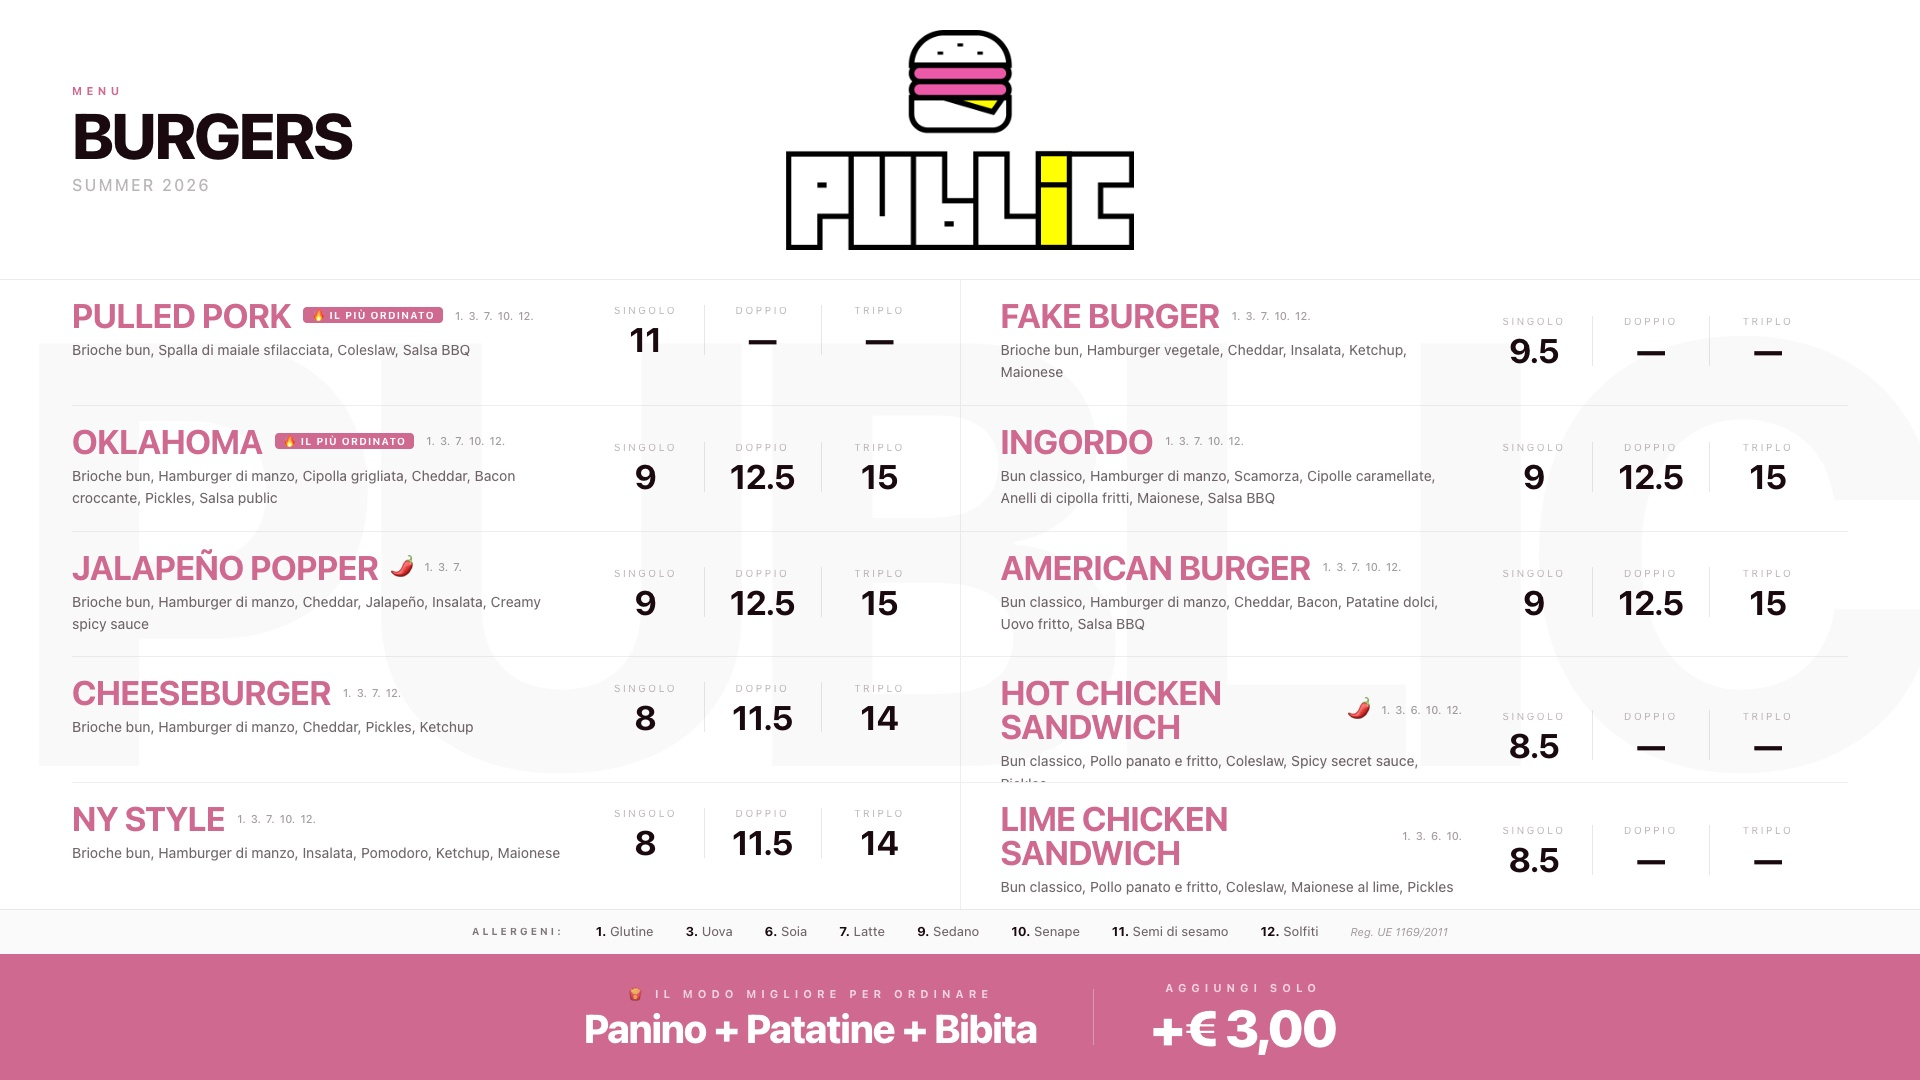
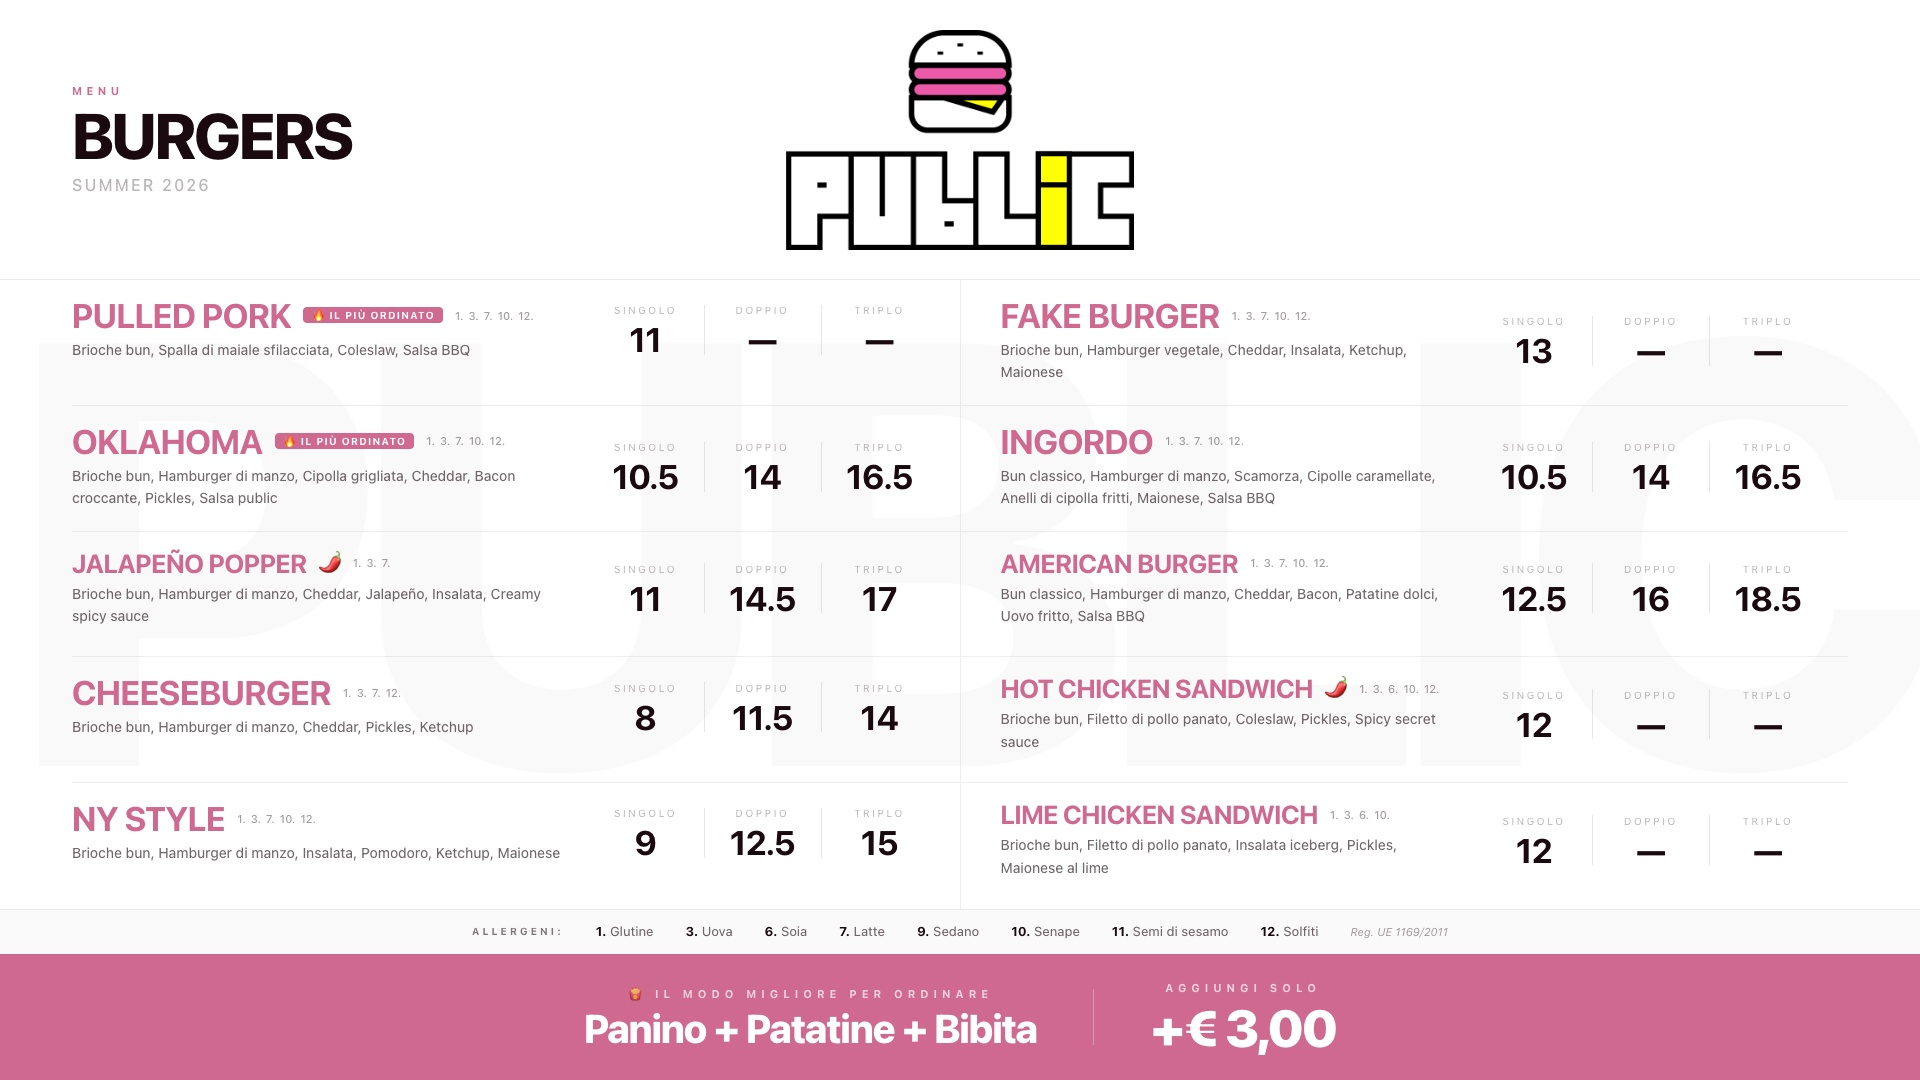
Update menu: new prices, Hot/Lime Chicken Sandwich, Chicken Tenders, bypass display auth

diff --git a/src/menuData.ts b/src/menuData.ts
@@ -36,7 +36,7 @@ export const BURGERS: BurgerDef[] = [
     tag: 'Bold',
     spicy: false,
     ingredients: ['Brioche bun', 'Hamburger di manzo', 'Cipolla grigliata', 'Cheddar', 'Bacon croccante', 'Pickles', 'Salsa public'],
-    prices: { single: 9, double: 12.5, triple: 15 },
+    prices: { single: 10.5, double: 14, triple: 16.5 },
     combo: 3,
     allergens: [1, 3, 7, 10, 12],
     popular: true,
@@ -46,7 +46,7 @@ export const BURGERS: BurgerDef[] = [
     tag: 'Spicy',
     spicy: true,
     ingredients: ['Brioche bun', 'Hamburger di manzo', 'Cheddar', 'Jalapeño', 'Insalata', 'Creamy spicy sauce'],
-    prices: { single: 9, double: 12.5, triple: 15 },
+    prices: { single: 11, double: 14.5, triple: 17 },
     combo: 3,
     allergens: [1, 3, 7],
   },
@@ -64,7 +64,7 @@ export const BURGERS: BurgerDef[] = [
     tag: 'Signature',
     spicy: false,
     ingredients: ['Brioche bun', 'Hamburger di manzo', 'Insalata', 'Pomodoro', 'Ketchup', 'Maionese'],
-    prices: { single: 8, double: 11.5, triple: 14 },
+    prices: { single: 9, double: 12.5, triple: 15 },
     combo: 3,
     allergens: [1, 3, 7, 10, 12],
   },
@@ -74,7 +74,7 @@ export const BURGERS: BurgerDef[] = [
     spicy: false,
     ingredients: ['Brioche bun', 'Hamburger vegetale', 'Cheddar', 'Insalata', 'Ketchup', 'Maionese'],
     prices: null,
-    fixedPrice: 9.5,
+    fixedPrice: 13,
     combo: 3,
     allergens: [1, 3, 7, 10, 12],
   },
@@ -83,7 +83,7 @@ export const BURGERS: BurgerDef[] = [
     tag: 'Extra',
     spicy: false,
     ingredients: ['Bun classico', 'Hamburger di manzo', 'Scamorza', 'Cipolle caramellate', 'Anelli di cipolla fritti', 'Maionese', 'Salsa BBQ'],
-    prices: { single: 9, double: 12.5, triple: 15 },
+    prices: { single: 10.5, double: 14, triple: 16.5 },
     combo: 3,
     allergens: [1, 3, 7, 10, 12],
   },
@@ -92,7 +92,7 @@ export const BURGERS: BurgerDef[] = [
     tag: 'American',
     spicy: false,
     ingredients: ['Bun classico', 'Hamburger di manzo', 'Cheddar', 'Bacon', 'Patatine dolci', 'Uovo fritto', 'Salsa BBQ'],
-    prices: { single: 9, double: 12.5, triple: 15 },
+    prices: { single: 12.5, double: 16, triple: 18.5 },
     combo: 3,
     allergens: [1, 3, 7, 10, 12],
   },
@@ -100,9 +100,9 @@ export const BURGERS: BurgerDef[] = [
     name: 'Hot Chicken Sandwich',
     tag: 'Chicken',
     spicy: true,
-    ingredients: ['Bun classico', 'Pollo panato e fritto', 'Coleslaw', 'Spicy secret sauce', 'Pickles'],
+    ingredients: ['Brioche bun', 'Filetto di pollo panato', 'Coleslaw', 'Pickles', 'Spicy secret sauce'],
     prices: null,
-    fixedPrice: 8.5,
+    fixedPrice: 12,
     combo: 3,
     allergens: [1, 3, 6, 10, 12],
   },
@@ -110,24 +110,23 @@ export const BURGERS: BurgerDef[] = [
     name: 'Lime Chicken Sandwich',
     tag: 'Chicken',
     spicy: false,
-    ingredients: ['Bun classico', 'Pollo panato e fritto', 'Coleslaw', 'Maionese al lime', 'Pickles'],
+    ingredients: ['Brioche bun', 'Filetto di pollo panato', 'Insalata iceberg', 'Pickles', 'Maionese al lime'],
     prices: null,
-    fixedPrice: 8.5,
+    fixedPrice: 12,
     combo: 3,
     allergens: [1, 3, 6, 10],
   },
 ];
 
 export const FRIES: FryDef[] = [
-  { name: 'Patatine', desc: 'Classiche fritte croccanti', price: 3.5, allergens: [] },
-  { name: 'Onion Rings', desc: 'Anelli di cipolla in pastella', price: 4.0, allergens: [1] },
-  { name: 'Cheese Bacon Fries', desc: 'Patatine con cheddar e bacon croccante', price: 4.5, allergens: [7] },
-  { name: 'Sweet Potatoes', desc: 'Patatine di patata dolce', price: 4.0, allergens: [] },
-  { name: 'Nuggets', desc: 'Croccanti e dorati', price: 6, allergens: [1, 3, 6, 7, 9, 10, 11] },
-  { name: 'Chicken Tenders', desc: '3 pezzi di pollo croccante', price: 6, allergens: [1, 3, 6, 10] },
+  { name: 'Patatine',         desc: 'Classiche fritte croccanti',              price: 3.5, allergens: [] },
+  { name: 'Onion Rings',      desc: 'Anelli di cipolla in pastella',           price: 4.5, allergens: [1] },
+  { name: 'Cheese Bacon Fries', desc: 'Patatine con cheddar e bacon croccante', price: 5,   allergens: [7] },
+  { name: 'Sweet Potatoes',   desc: 'Patatine di patata dolce',                price: 4,   allergens: [] },
+  { name: 'Nuggets',          desc: 'Croccanti e dorati',                      price: 5,   allergens: [1, 3, 6, 7, 9, 10, 11] },
+  { name: 'Chicken Tenders',  desc: '2 pezzi di pollo croccante',              price: 5,   allergens: [1, 3, 6, 10] },
 ];
 
-// All unique toppings/sauces that can be added as extras
 export const ALL_EXTRAS: string[] = [
   'Cheddar', 'Pickles', 'Ketchup', 'Insalata', 'Pomodoro', 'Maionese',
   'Cipolla grigliata', 'Bacon croccante', 'Salsa public', 'Jalapeño',
@@ -160,12 +159,11 @@ export const ALLERGEN_LABELS: Record<number, string> = {
 };
 
 export const SALSE_ALLERGENS: Record<string, number[]> = {
-  'Ketchup': [12],
-  'Maionese': [3, 10],
-  'BBQ': [10, 12],
-  'Salsa Burger': [],
-  'Salsa Smokey': [10, 12],
-  'Salsa Public': [3, 10, 12],
-  'Senape': [10, 12],
+  'Ketchup':        [12],
+  'Maionese':       [3, 10],
+  'BBQ':            [10, 12],
+  'Salsa Smokey':   [10, 12],
+  'Salsa Public':   [3, 10, 12],
+  'Senape':         [10, 12],
   'Salsa Piccante': [12],
 };

diff --git a/src/MenuDisplay.tsx b/src/MenuDisplay.tsx
@@ -67,7 +67,7 @@ function BurgerItem({ burger, last }: { burger: typeof BURGERS[0]; last?: boolea
       {/* Left: name + ingredients */}
       <div style={{ flex: 1, minWidth: 0 }}>
         <div style={{ display: 'flex', alignItems: 'center', gap: 12, marginBottom: 7 }}>
-          <span style={{ fontSize: 34, fontWeight: 700, color: PINK, textTransform: 'uppercase', letterSpacing: '-0.02em', lineHeight: 1 }}>
+          <span style={{ fontSize: burger.name.length > 14 ? 26 : 34, fontWeight: 700, color: PINK, textTransform: 'uppercase', letterSpacing: '-0.02em', lineHeight: 1 }}>
             {burger.name}
           </span>
           {burger.popular && (
@@ -243,7 +243,7 @@ function Screen2() {
                     <span style={{ display: 'flex', gap: 4 }}>{(FRIES_ALLERGENS[f.name] ?? []).map(n => <span key={n} style={{ fontSize: 11, color: 'rgba(26,10,16,0.4)', fontWeight: 500 }}>{n}.</span>)}</span>
                   </div>
                   <div style={{ fontSize: 14, color: 'rgba(26,10,16,0.62)', fontWeight: 450, marginBottom: 12 }}>{f.desc}</div>
-                  {[{ label: '6 pz', price: '6' }, { label: '12 pz', price: '8.5' }, { label: '20 pz', price: '15' }].map(({ label, price }) => (
+                  {[{ label: '6 pz', price: '5' }, { label: '12 pz', price: '8.5' }, { label: '20 pz', price: '15' }].map(({ label, price }) => (
                     <div key={label} style={{ display: 'flex', justifyContent: 'space-between', alignItems: 'center', borderTop: '1px solid rgba(26,10,16,0.06)', padding: '7px 0' }}>
                       <span style={{ fontSize: 14, color: 'rgba(26,10,16,0.55)', fontWeight: 500, letterSpacing: '0.05em', textTransform: 'uppercase' }}>{label}</span>
                       <span style={{ fontSize: 30, fontWeight: 700, color: DARK, lineHeight: 1 }}>{price}</span>

diff --git a/src/App.tsx b/src/App.tsx
@@ -132,6 +132,8 @@ export default function App() {
     }
   }, []);
 
+  if (path === '/display') return <Suspense fallback={null}><MenuDisplay /></Suspense>;
+
   if (!authed) {
     function handleLogin(e: React.FormEvent) {
       e.preventDefault();
@@ -175,7 +177,6 @@ export default function App() {
   }
 
   if (path === '/admin')   return <Suspense fallback={null}><AdminPage /></Suspense>;
-  if (path === '/display') return <Suspense fallback={null}><MenuDisplay /></Suspense>;
   if (path === '/privacy') return <Suspense fallback={null}><LegalPage page="privacy" /></Suspense>;
   if (path === '/cookie')  return <Suspense fallback={null}><LegalPage page="cookie" /></Suspense>;
   if (path === '/terms')   return <Suspense fallback={null}><LegalPage page="terms" /></Suspense>;
